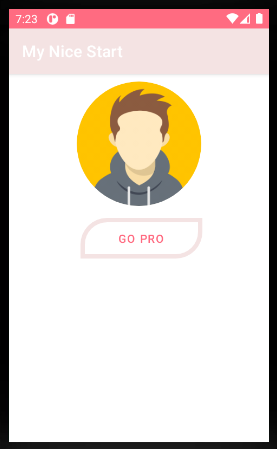
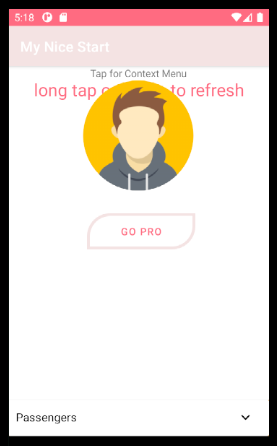
readme

Changed region(s): [[0.0289, 0.0291, 0.9819, 0.583], [0.0289, 0.9036, 0.9819, 1.0]]

diff --git a/README.md b/README.md
@@ -1,7 +1,7 @@
 # MyNiceStart
-*Splash Screen* | *Log In Activity* | *Sign Up Activity* | *Main Activity*
---------------|-----------------|------------------|---------------
-![Splash Screen](/img/SplashScreen.png)| ![Log In Activity](/img/LoginActivity.png)  | ![Sign Up Activity](/img/SignupActivity.png) | ![Main Activity](/img/MainActivity.png)
+*Splash Screen* | *Log In Activity* | *Sign Up Activity* | *Main Activity* | *Context Menu* | *Swipe Refresh* | *Expandable Card* | *Alert Dialog* | *Bottom AppBar*
+--------------|-----------------|------------------|---------------|------------------|---------------|------------------|---------------|------------------
+![Splash Screen](/img/SplashScreen.png)| ![Log In Activity](/img/LoginActivity.png)  | ![Sign Up Activity](/img/SignupActivity.png) | ![Main Activity](/img/MainActivity.png) | ![Context Menu](/img/ContextMenu.png) | ![Swipe Refresh](/img/Swipetorefresh.png) | ![Expandable Card](/img/Expandable.png) | ![Alert Dialog](/img/AlertDialog.png) | ![Bottom AppBar](/img/BottomAppBar.png)
 
 
 
